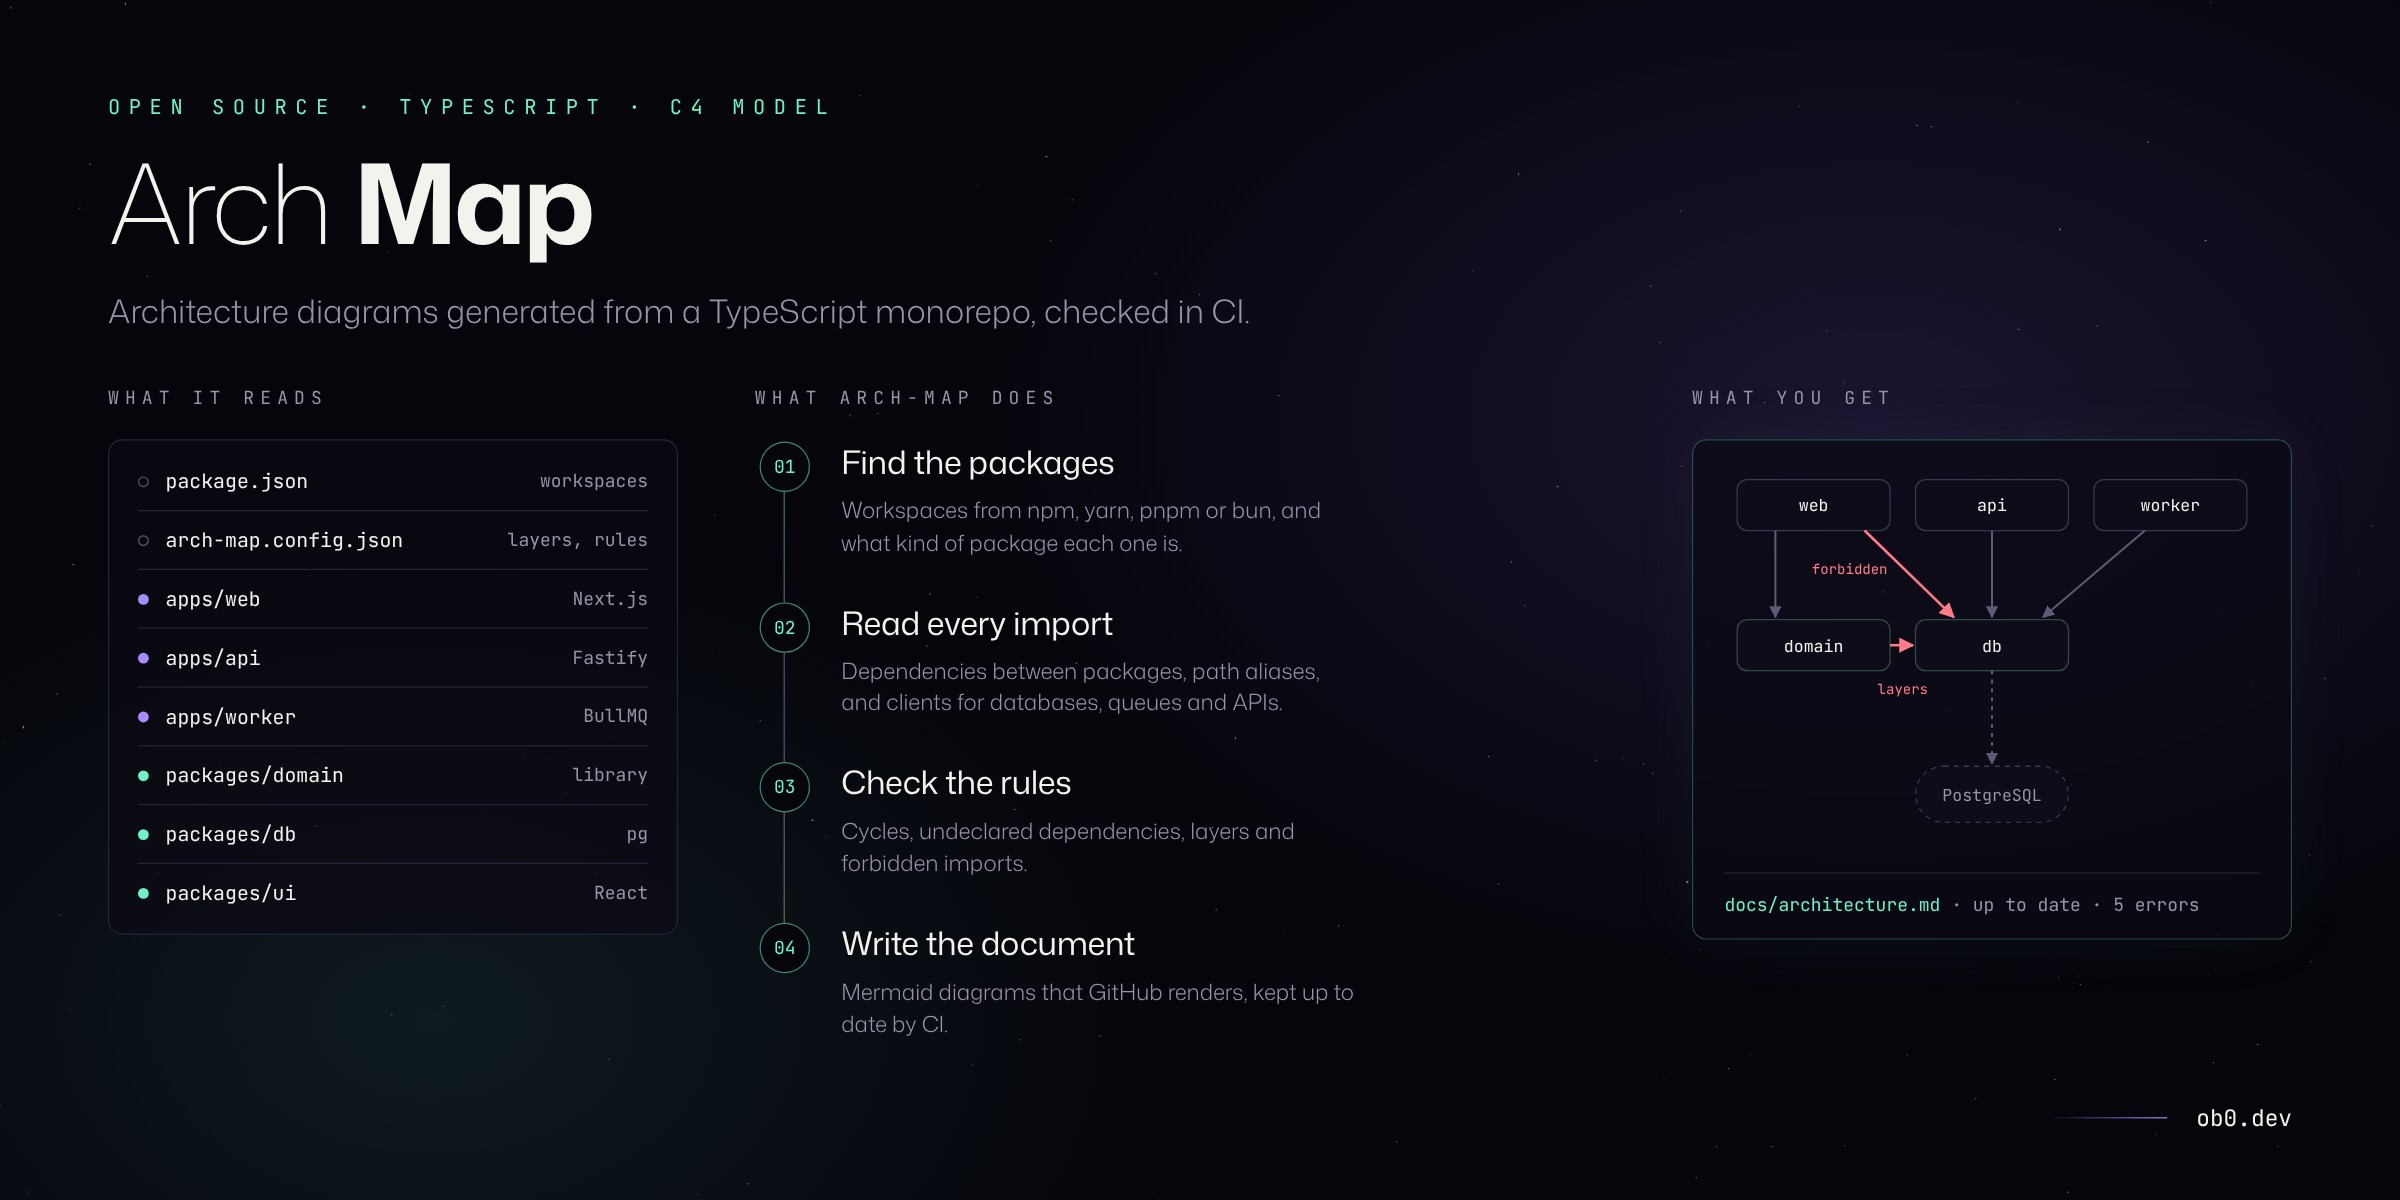
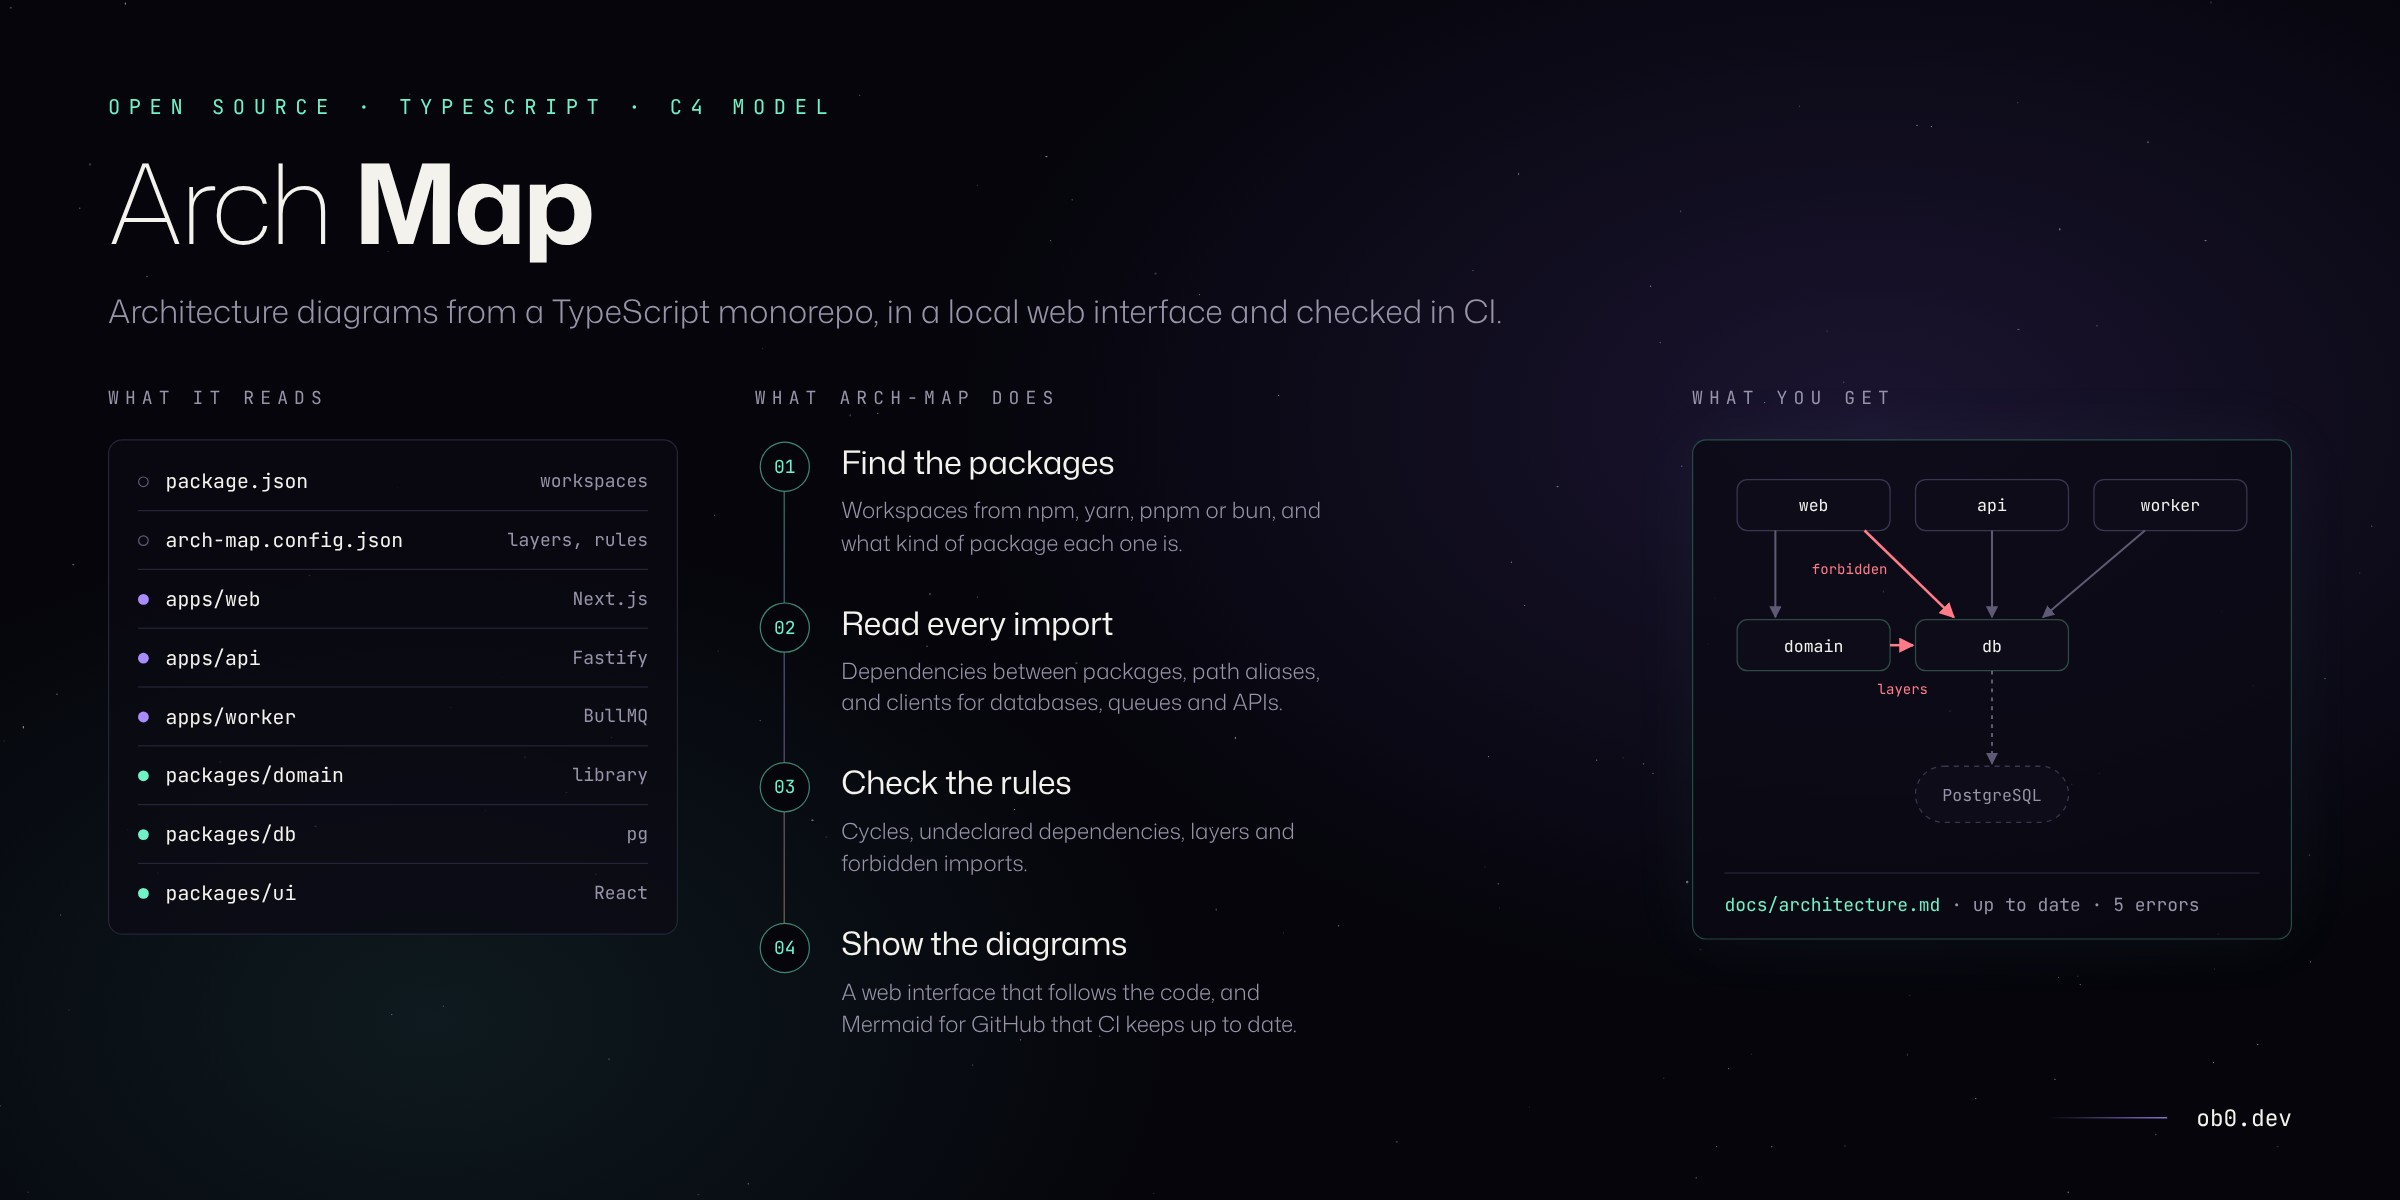
README: lead with the web interface, add quick start

Changed region(s): [[0.3438, 0.7708, 0.5625, 0.8633], [0.1875, 0.2467, 0.625, 0.2775]]

diff --git a/README.md b/README.md
@@ -1,4 +1,4 @@
-<img src="docs/diagram.jpg" alt="Arch Map: workspace packages and imports go in, rules are checked, a Mermaid architecture document comes out" width="100%">
+<img src="docs/diagram.jpg" alt="Arch Map: workspace packages and imports go in, rules are checked, the diagrams come out in a web interface and a Mermaid document" width="100%">
 
 # arch-map
 
@@ -8,11 +8,44 @@
 
 Architecture diagrams of a monorepo are usually drawn by hand once and then go out of date: a new package is added, the web app starts importing the database layer directly, two libraries end up depending on each other. Nobody notices until the diagram is needed and turns out to be wrong.
 
-arch-map builds the diagrams from the code. It reads the workspace packages, their `package.json` files and every import, and writes `docs/architecture.md` with [C4](https://c4model.com) diagrams in Mermaid, which GitHub renders in place. It also checks rules (cycles, undeclared dependencies, layers, forbidden imports) and a CI step fails when the committed document is out of date, so the diagrams change in the same pull request as the code. `arch-map serve` opens the diagrams in a local web interface that updates as the code changes, and `arch-map view` writes the package graph as a single HTML file.
+arch-map builds the diagrams from the code. It reads the workspace packages, their `package.json` files and every import, and writes `docs/architecture.md` with [C4](https://c4model.com) diagrams in Mermaid, which GitHub renders in place. It also checks rules (cycles, undeclared dependencies, layers, forbidden imports) and a CI step fails when the committed document is out of date, so the diagrams change in the same pull request as the code. While you work, `arch-map serve` shows the same diagrams in a local web interface that updates as the code changes.
 
-<img src="docs/demo.svg" alt="Terminal demo: arch-map writes the architecture document for a small monorepo and finds 5 errors and 1 warning, each with its file and rule" width="100%">
+<img src="docs/app-packages.png" alt="Web interface: the example monorepo's packages grouped by layer, the web app selected with its dependencies, external systems and two violations on the right" width="100%">
 
-<sub>Run on [examples/shop](examples/shop), a small monorepo with violations planted on purpose.</sub>
+<sub>`arch-map serve` on [examples/shop](examples/shop), a small monorepo with violations planted on purpose (`npm run serve:example`).</sub>
+
+## Quick start
+
+In the root of a TypeScript monorepo:
+
+```sh
+npx github:oebh2408/arch-map serve
+```
+
+Open http://localhost:4200. No config is needed to start; layers and rules are added later in [arch-map.config.json](#config). To try it on the example monorepo:
+
+```sh
+git clone https://github.com/oebh2408/arch-map
+cd arch-map
+npm install
+npm run serve:example
+```
+
+## Web interface
+
+```sh
+npx arch-map serve
+```
+
+This starts a local server on http://localhost:4200 with the same model as the generated document: the system context, the containers, the package graph, the components of each package and the rule violations. The overview lists the packages and the external systems they use.
+
+In the package graph (the image at the top), packages are grouped by layer, or into applications and libraries when there are no layers. Red edges break a rule and amber ones are warnings, and dashed grey ones are dependencies that are declared but unused or only used by tests. Click a package to see what it depends on, what depends on it, the external systems it reaches and its folders; the rest of the graph fades. The components view shows the folders of one package, the files in each and the imports between them, with forbidden imports in red. Clicking a violation opens the view where it happens and selects it.
+
+<img src="docs/app-components.png" alt="Web interface in dark mode: the components of the API package, with a forbidden import from the routes folder to the database package" width="100%">
+
+The model is rebuilt when a file in the repository changes (`node_modules`, `.git` and build folders are ignored), so the diagrams follow the code while you work. The server only listens on 127.0.0.1 and rejects requests with a different `Host` header. It follows the system light or dark theme.
+
+`arch-map view` writes the package graph as a single self-contained HTML file (no scripts or fonts loaded from the network), to attach to a pull request or a design document.
 
 ## Example
 
@@ -122,24 +155,6 @@ Override it per package in `package.json`:
 
 External systems are detected from client libraries: `pg`, `mysql2`, `mongodb`, `redis`, `ioredis`, `bullmq`, `kafkajs`, `amqplib`, `nodemailer`, `stripe`, `twilio`, LLM SDKs and others. Add your own in the config under `externals`.
 
-## Web interface
-
-```sh
-npx arch-map serve
-```
-
-This starts a local server on http://localhost:4200 with the same model as the generated document: the system context, the containers, the package graph, the components of each package and the rule violations. The overview lists the packages and the external systems they use.
-
-<img src="docs/app-packages.png" alt="Web interface: the example monorepo's packages grouped by layer, the web app selected with its dependencies, external systems and two violations on the right" width="100%">
-
-In the package graph, packages are grouped by layer, or into applications and libraries when there are no layers. Red edges break a rule and amber ones are warnings, and dashed grey ones are dependencies that are declared but unused or only used by tests. Click a package to see what it depends on, what depends on it, the external systems it reaches and its folders; the rest of the graph fades. The components view shows the folders of one package, the files in each and the imports between them, with forbidden imports in red. Clicking a violation opens the view where it happens and selects it.
-
-<img src="docs/app-components.png" alt="Web interface in dark mode: the components of the API package, with a forbidden import from the routes folder to the database package" width="100%">
-
-The model is rebuilt when a file in the repository changes (`node_modules`, `.git` and build folders are ignored), so the diagrams follow the code while you work. The server only listens on 127.0.0.1 and rejects requests with a different `Host` header. It follows the system light or dark theme.
-
-`arch-map view` writes the package graph as a single self-contained HTML file (no scripts or fonts loaded from the network), to attach to a pull request or a design document.
-
 ## Rules
 
 | Rule | Default | What it finds |
@@ -168,6 +183,10 @@ npx arch-map serve                    # web interface on http://localhost:4200
 npx arch-map view                     # writes architecture.html
 npx arch-map generate --format structurizr --out docs/workspace.dsl
 ```
+
+<img src="docs/demo.svg" alt="Terminal demo: arch-map writes the architecture document for a small monorepo and finds 5 errors and 1 warning, each with its file and rule" width="100%">
+
+<sub>Run on [examples/shop](examples/shop), a small monorepo with violations planted on purpose.</sub>
 
 Workspaces are read from `package.json` (`workspaces`, as used by npm, yarn and bun) or `pnpm-workspace.yaml`. A repository without workspaces is treated as one package. Path aliases from `tsconfig.base.json` or `tsconfig.json` are resolved.
 
@@ -253,7 +272,7 @@ npm install
 npm test
 npm run build && npm run example   # regenerates examples/shop/docs/architecture.md
 npm run demo:svg                   # re-renders docs/demo.svg from the real output
-npm run build && node dist/cli.js serve examples/shop
+npm run serve:example             # web interface on examples/shop
 npm run screenshots                # regenerates the interface images, needs a local Chromium
 ```
 
